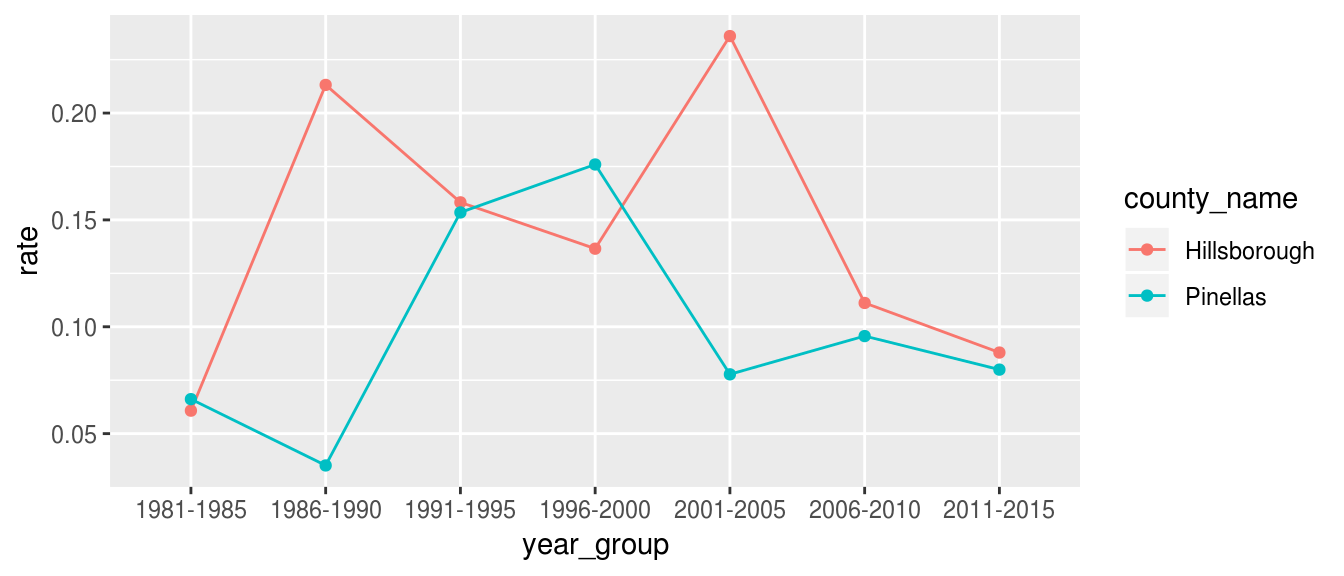
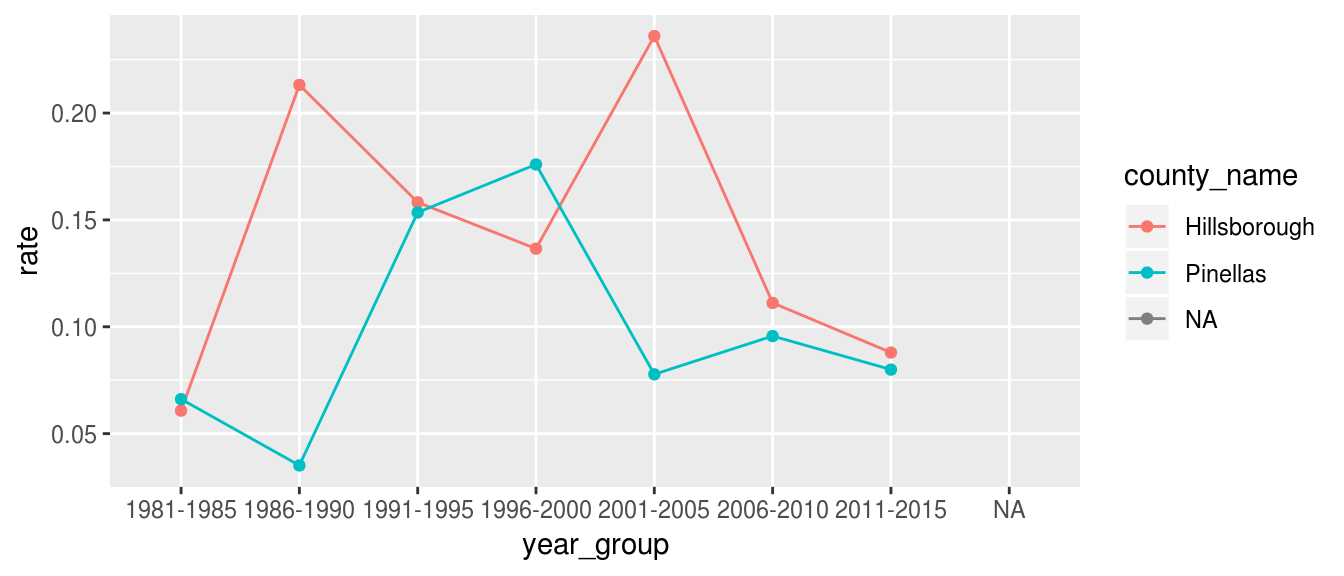
Deploy from Travis build 70 [ci skip]
Build URL: https://travis-ci.org/GerkeLab/fcds/builds/527112856
Commit: 1417245ba5334bbd1c8b8e6c6d7033863dd075ba

diff --git a/articles/fcds.html b/articles/fcds.html
@@ -31,7 +31,7 @@
       </button>
       <span class="navbar-brand">
         <a class="navbar-link" href="../index.html">fcds</a>
-        <span class="version label label-default" data-toggle="tooltip" data-placement="bottom" title="Released version">0.0.6.9003</span>
+        <span class="version label label-default" data-toggle="tooltip" data-placement="bottom" title="Released version">0.0.6.9004</span>
       </span>
     </div>
 
@@ -243,26 +243,113 @@
 <a class="sourceLine" id="cb10-16" data-line-number="16"><span class="st">  </span><span class="kw"><a href="../reference/age_adjust.html">age_adjust</a></span>() <span class="op">%&gt;%</span><span class="st"> </span></a>
 <a class="sourceLine" id="cb10-17" data-line-number="17"><span class="st">  </span><span class="co"># Compute average yearly age-adjusted rate over 5 year range</span></a>
 <a class="sourceLine" id="cb10-18" data-line-number="18"><span class="st">  </span><span class="kw"><a href="https://dplyr.tidyverse.org/reference/mutate.html">mutate</a></span>(<span class="dt">rate =</span> rate <span class="op">/</span><span class="st"> </span><span class="dv">5</span>)</a>
-<a class="sourceLine" id="cb10-19" data-line-number="19"></a>
-<a class="sourceLine" id="cb10-20" data-line-number="20">fcds_prostate</a>
-<a class="sourceLine" id="cb10-21" data-line-number="21"><span class="co">#&gt; # A tibble: 14 x 7</span></a>
-<a class="sourceLine" id="cb10-22" data-line-number="22"><span class="co">#&gt; # Groups:   cancer_site_group, county_name, year_group, year [14]</span></a>
-<a class="sourceLine" id="cb10-23" data-line-number="23"><span class="co">#&gt;    cancer_site_group county_name  year_group year      n population   rate</span></a>
-<a class="sourceLine" id="cb10-24" data-line-number="24"><span class="co">#&gt;    &lt;fct&gt;             &lt;fct&gt;        &lt;fct&gt;      &lt;chr&gt; &lt;dbl&gt;      &lt;dbl&gt;  &lt;dbl&gt;</span></a>
-<a class="sourceLine" id="cb10-25" data-line-number="25"><span class="co">#&gt;  1 Prostate Gland    Hillsborough 1981-1985  1983      2     709697 0.0608</span></a>
-<a class="sourceLine" id="cb10-26" data-line-number="26"><span class="co">#&gt;  2 Prostate Gland    Hillsborough 1986-1990  1988      8     816676 0.213 </span></a>
-<a class="sourceLine" id="cb10-27" data-line-number="27"><span class="co">#&gt;  3 Prostate Gland    Hillsborough 1991-1995  1993      6     879024 0.158 </span></a>
-<a class="sourceLine" id="cb10-28" data-line-number="28"><span class="co">#&gt;  4 Prostate Gland    Hillsborough 1996-2000  1998      6     965130 0.137 </span></a>
-<a class="sourceLine" id="cb10-29" data-line-number="29"><span class="co">#&gt;  5 Prostate Gland    Hillsborough 2001-2005  2003     12    1077462 0.236 </span></a>
-<a class="sourceLine" id="cb10-30" data-line-number="30"><span class="co">#&gt;  6 Prostate Gland    Hillsborough 2006-2010  2008      7    1196773 0.111 </span></a>
-<a class="sourceLine" id="cb10-31" data-line-number="31"><span class="co">#&gt;  7 Prostate Gland    Hillsborough 2011-2015  2013      6    1293189 0.0880</span></a>
-<a class="sourceLine" id="cb10-32" data-line-number="32"><span class="co">#&gt;  8 Prostate Gland    Pinellas     1981-1985  1983      3     779156 0.0661</span></a>
-<a class="sourceLine" id="cb10-33" data-line-number="33"><span class="co">#&gt;  9 Prostate Gland    Pinellas     1986-1990  1988      2     829539 0.0351</span></a>
-<a class="sourceLine" id="cb10-34" data-line-number="34"><span class="co">#&gt; 10 Prostate Gland    Pinellas     1991-1995  1993     11     877340 0.154 </span></a>
-<a class="sourceLine" id="cb10-35" data-line-number="35"><span class="co">#&gt; 11 Prostate Gland    Pinellas     1996-2000  1998     11     913032 0.176 </span></a>
-<a class="sourceLine" id="cb10-36" data-line-number="36"><span class="co">#&gt; 12 Prostate Gland    Pinellas     2001-2005  2003      5     926266 0.0778</span></a>
-<a class="sourceLine" id="cb10-37" data-line-number="37"><span class="co">#&gt; 13 Prostate Gland    Pinellas     2006-2010  2008      7     916458 0.0957</span></a>
-<a class="sourceLine" id="cb10-38" data-line-number="38"><span class="co">#&gt; 14 Prostate Gland    Pinellas     2011-2015  2013      7     929085 0.0800</span></a></code></pre></div>
+<a class="sourceLine" id="cb10-19" data-line-number="19"><span class="co">#&gt; Warning: Factor `cancer_site_group` contains implicit NA, consider using</span></a>
+<a class="sourceLine" id="cb10-20" data-line-number="20"><span class="co">#&gt; `forcats::fct_explicit_na`</span></a>
+<a class="sourceLine" id="cb10-21" data-line-number="21"><span class="co">#&gt; Warning: Factor `county_name` contains implicit NA, consider using</span></a>
+<a class="sourceLine" id="cb10-22" data-line-number="22"><span class="co">#&gt; `forcats::fct_explicit_na`</span></a>
+<a class="sourceLine" id="cb10-23" data-line-number="23"><span class="co">#&gt; Warning: Factor `year_group` contains implicit NA, consider using</span></a>
+<a class="sourceLine" id="cb10-24" data-line-number="24"><span class="co">#&gt; `forcats::fct_explicit_na`</span></a>
+<a class="sourceLine" id="cb10-25" data-line-number="25"><span class="co">#&gt; Warning: Factor `cancer_site_group` contains implicit NA, consider using</span></a>
+<a class="sourceLine" id="cb10-26" data-line-number="26"><span class="co">#&gt; `forcats::fct_explicit_na`</span></a>
+<a class="sourceLine" id="cb10-27" data-line-number="27"><span class="co">#&gt; Warning: Factor `county_name` contains implicit NA, consider using</span></a>
+<a class="sourceLine" id="cb10-28" data-line-number="28"><span class="co">#&gt; `forcats::fct_explicit_na`</span></a>
+<a class="sourceLine" id="cb10-29" data-line-number="29"><span class="co">#&gt; Warning: Factor `year_group` contains implicit NA, consider using</span></a>
+<a class="sourceLine" id="cb10-30" data-line-number="30"><span class="co">#&gt; `forcats::fct_explicit_na`</span></a>
+<a class="sourceLine" id="cb10-31" data-line-number="31"><span class="co">#&gt; Warning: Factor `cancer_site_group` contains implicit NA, consider using</span></a>
+<a class="sourceLine" id="cb10-32" data-line-number="32"><span class="co">#&gt; `forcats::fct_explicit_na`</span></a>
+<a class="sourceLine" id="cb10-33" data-line-number="33"><span class="co">#&gt; Warning: Factor `county_name` contains implicit NA, consider using</span></a>
+<a class="sourceLine" id="cb10-34" data-line-number="34"><span class="co">#&gt; `forcats::fct_explicit_na`</span></a>
+<a class="sourceLine" id="cb10-35" data-line-number="35"><span class="co">#&gt; Warning: Factor `year_group` contains implicit NA, consider using</span></a>
+<a class="sourceLine" id="cb10-36" data-line-number="36"><span class="co">#&gt; `forcats::fct_explicit_na`</span></a>
+<a class="sourceLine" id="cb10-37" data-line-number="37"><span class="co">#&gt; Warning: Factor `cancer_site_group` contains implicit NA, consider using</span></a>
+<a class="sourceLine" id="cb10-38" data-line-number="38"><span class="co">#&gt; `forcats::fct_explicit_na`</span></a>
+<a class="sourceLine" id="cb10-39" data-line-number="39"><span class="co">#&gt; Warning: Factor `county_name` contains implicit NA, consider using</span></a>
+<a class="sourceLine" id="cb10-40" data-line-number="40"><span class="co">#&gt; `forcats::fct_explicit_na`</span></a>
+<a class="sourceLine" id="cb10-41" data-line-number="41"><span class="co">#&gt; Warning: Factor `year_group` contains implicit NA, consider using</span></a>
+<a class="sourceLine" id="cb10-42" data-line-number="42"><span class="co">#&gt; `forcats::fct_explicit_na`</span></a>
+<a class="sourceLine" id="cb10-43" data-line-number="43"><span class="co">#&gt; Warning: Mismatched number of age_groups in data, you may need to use complete_age_groups() first.</span></a>
+<a class="sourceLine" id="cb10-44" data-line-number="44"><span class="co">#&gt; 'Prostate Gland, Pinellas, 1996-2000, 1998' has 8 age groups, but 'Prostate Gland, Hillsborough, 2001-2005, 2003', 'Prostate Gland, Hillsborough, 1986-1990, 1988', and 12 more... have fewer age groups.</span></a>
+<a class="sourceLine" id="cb10-45" data-line-number="45"><span class="co">#&gt; Warning: Factor `cancer_site_group` contains implicit NA, consider using</span></a>
+<a class="sourceLine" id="cb10-46" data-line-number="46"><span class="co">#&gt; `forcats::fct_explicit_na`</span></a>
+<a class="sourceLine" id="cb10-47" data-line-number="47"><span class="co">#&gt; Warning: Factor `county_name` contains implicit NA, consider using</span></a>
+<a class="sourceLine" id="cb10-48" data-line-number="48"><span class="co">#&gt; `forcats::fct_explicit_na`</span></a>
+<a class="sourceLine" id="cb10-49" data-line-number="49"><span class="co">#&gt; Warning: Factor `year_group` contains implicit NA, consider using</span></a>
+<a class="sourceLine" id="cb10-50" data-line-number="50"><span class="co">#&gt; `forcats::fct_explicit_na`</span></a>
+<a class="sourceLine" id="cb10-51" data-line-number="51"><span class="co">#&gt; Warning: Factor `cancer_site_group` contains implicit NA, consider using</span></a>
+<a class="sourceLine" id="cb10-52" data-line-number="52"><span class="co">#&gt; `forcats::fct_explicit_na`</span></a>
+<a class="sourceLine" id="cb10-53" data-line-number="53"><span class="co">#&gt; Warning: Factor `county_name` contains implicit NA, consider using</span></a>
+<a class="sourceLine" id="cb10-54" data-line-number="54"><span class="co">#&gt; `forcats::fct_explicit_na`</span></a>
+<a class="sourceLine" id="cb10-55" data-line-number="55"><span class="co">#&gt; Warning: Factor `year_group` contains implicit NA, consider using</span></a>
+<a class="sourceLine" id="cb10-56" data-line-number="56"><span class="co">#&gt; `forcats::fct_explicit_na`</span></a>
+<a class="sourceLine" id="cb10-57" data-line-number="57"><span class="co">#&gt; Warning: Factor `cancer_site_group` contains implicit NA, consider using</span></a>
+<a class="sourceLine" id="cb10-58" data-line-number="58"><span class="co">#&gt; `forcats::fct_explicit_na`</span></a>
+<a class="sourceLine" id="cb10-59" data-line-number="59"><span class="co">#&gt; Warning: Factor `county_name` contains implicit NA, consider using</span></a>
+<a class="sourceLine" id="cb10-60" data-line-number="60"><span class="co">#&gt; `forcats::fct_explicit_na`</span></a>
+<a class="sourceLine" id="cb10-61" data-line-number="61"><span class="co">#&gt; Warning: Factor `year_group` contains implicit NA, consider using</span></a>
+<a class="sourceLine" id="cb10-62" data-line-number="62"><span class="co">#&gt; `forcats::fct_explicit_na`</span></a>
+<a class="sourceLine" id="cb10-63" data-line-number="63"><span class="co">#&gt; Warning: Factor `cancer_site_group` contains implicit NA, consider using</span></a>
+<a class="sourceLine" id="cb10-64" data-line-number="64"><span class="co">#&gt; `forcats::fct_explicit_na`</span></a>
+<a class="sourceLine" id="cb10-65" data-line-number="65"><span class="co">#&gt; Warning: Factor `county_name` contains implicit NA, consider using</span></a>
+<a class="sourceLine" id="cb10-66" data-line-number="66"><span class="co">#&gt; `forcats::fct_explicit_na`</span></a>
+<a class="sourceLine" id="cb10-67" data-line-number="67"><span class="co">#&gt; Warning: Factor `year_group` contains implicit NA, consider using</span></a>
+<a class="sourceLine" id="cb10-68" data-line-number="68"><span class="co">#&gt; `forcats::fct_explicit_na`</span></a>
+<a class="sourceLine" id="cb10-69" data-line-number="69"><span class="co">#&gt; Warning: Factor `cancer_site_group` contains implicit NA, consider using</span></a>
+<a class="sourceLine" id="cb10-70" data-line-number="70"><span class="co">#&gt; `forcats::fct_explicit_na`</span></a>
+<a class="sourceLine" id="cb10-71" data-line-number="71"><span class="co">#&gt; Warning: Factor `county_name` contains implicit NA, consider using</span></a>
+<a class="sourceLine" id="cb10-72" data-line-number="72"><span class="co">#&gt; `forcats::fct_explicit_na`</span></a>
+<a class="sourceLine" id="cb10-73" data-line-number="73"><span class="co">#&gt; Warning: Factor `year_group` contains implicit NA, consider using</span></a>
+<a class="sourceLine" id="cb10-74" data-line-number="74"><span class="co">#&gt; `forcats::fct_explicit_na`</span></a>
+<a class="sourceLine" id="cb10-75" data-line-number="75"><span class="co">#&gt; Warning: Factor `cancer_site_group` contains implicit NA, consider using</span></a>
+<a class="sourceLine" id="cb10-76" data-line-number="76"><span class="co">#&gt; `forcats::fct_explicit_na`</span></a>
+<a class="sourceLine" id="cb10-77" data-line-number="77"><span class="co">#&gt; Warning: Factor `county_name` contains implicit NA, consider using</span></a>
+<a class="sourceLine" id="cb10-78" data-line-number="78"><span class="co">#&gt; `forcats::fct_explicit_na`</span></a>
+<a class="sourceLine" id="cb10-79" data-line-number="79"><span class="co">#&gt; Warning: Factor `year_group` contains implicit NA, consider using</span></a>
+<a class="sourceLine" id="cb10-80" data-line-number="80"><span class="co">#&gt; `forcats::fct_explicit_na`</span></a>
+<a class="sourceLine" id="cb10-81" data-line-number="81"><span class="co">#&gt; Warning: Factor `cancer_site_group` contains implicit NA, consider using</span></a>
+<a class="sourceLine" id="cb10-82" data-line-number="82"><span class="co">#&gt; `forcats::fct_explicit_na`</span></a>
+<a class="sourceLine" id="cb10-83" data-line-number="83"><span class="co">#&gt; Warning: Factor `county_name` contains implicit NA, consider using</span></a>
+<a class="sourceLine" id="cb10-84" data-line-number="84"><span class="co">#&gt; `forcats::fct_explicit_na`</span></a>
+<a class="sourceLine" id="cb10-85" data-line-number="85"><span class="co">#&gt; Warning: Factor `year_group` contains implicit NA, consider using</span></a>
+<a class="sourceLine" id="cb10-86" data-line-number="86"><span class="co">#&gt; `forcats::fct_explicit_na`</span></a>
+<a class="sourceLine" id="cb10-87" data-line-number="87"><span class="co">#&gt; Warning: Factor `cancer_site_group` contains implicit NA, consider using</span></a>
+<a class="sourceLine" id="cb10-88" data-line-number="88"><span class="co">#&gt; `forcats::fct_explicit_na`</span></a>
+<a class="sourceLine" id="cb10-89" data-line-number="89"><span class="co">#&gt; Warning: Factor `county_name` contains implicit NA, consider using</span></a>
+<a class="sourceLine" id="cb10-90" data-line-number="90"><span class="co">#&gt; `forcats::fct_explicit_na`</span></a>
+<a class="sourceLine" id="cb10-91" data-line-number="91"><span class="co">#&gt; Warning: Factor `year_group` contains implicit NA, consider using</span></a>
+<a class="sourceLine" id="cb10-92" data-line-number="92"><span class="co">#&gt; `forcats::fct_explicit_na`</span></a>
+<a class="sourceLine" id="cb10-93" data-line-number="93"><span class="co">#&gt; Warning: Factor `cancer_site_group` contains implicit NA, consider using</span></a>
+<a class="sourceLine" id="cb10-94" data-line-number="94"><span class="co">#&gt; `forcats::fct_explicit_na`</span></a>
+<a class="sourceLine" id="cb10-95" data-line-number="95"><span class="co">#&gt; Warning: Factor `county_name` contains implicit NA, consider using</span></a>
+<a class="sourceLine" id="cb10-96" data-line-number="96"><span class="co">#&gt; `forcats::fct_explicit_na`</span></a>
+<a class="sourceLine" id="cb10-97" data-line-number="97"><span class="co">#&gt; Warning: Factor `year_group` contains implicit NA, consider using</span></a>
+<a class="sourceLine" id="cb10-98" data-line-number="98"><span class="co">#&gt; `forcats::fct_explicit_na`</span></a>
+<a class="sourceLine" id="cb10-99" data-line-number="99"></a>
+<a class="sourceLine" id="cb10-100" data-line-number="100">fcds_prostate</a>
+<a class="sourceLine" id="cb10-101" data-line-number="101"><span class="co">#&gt; Warning: Factor `cancer_site_group` contains implicit NA, consider using</span></a>
+<a class="sourceLine" id="cb10-102" data-line-number="102"><span class="co">#&gt; `forcats::fct_explicit_na`</span></a>
+<a class="sourceLine" id="cb10-103" data-line-number="103"><span class="co">#&gt; Warning: Factor `county_name` contains implicit NA, consider using</span></a>
+<a class="sourceLine" id="cb10-104" data-line-number="104"><span class="co">#&gt; `forcats::fct_explicit_na`</span></a>
+<a class="sourceLine" id="cb10-105" data-line-number="105"><span class="co">#&gt; Warning: Factor `year_group` contains implicit NA, consider using</span></a>
+<a class="sourceLine" id="cb10-106" data-line-number="106"><span class="co">#&gt; `forcats::fct_explicit_na`</span></a>
+<a class="sourceLine" id="cb10-107" data-line-number="107"><span class="co">#&gt; # A tibble: 15 x 7</span></a>
+<a class="sourceLine" id="cb10-108" data-line-number="108"><span class="co">#&gt; # Groups:   cancer_site_group, county_name, year_group, year [15]</span></a>
+<a class="sourceLine" id="cb10-109" data-line-number="109"><span class="co">#&gt;    cancer_site_group county_name year_group year      n population     rate</span></a>
+<a class="sourceLine" id="cb10-110" data-line-number="110"><span class="co">#&gt;    &lt;fct&gt;             &lt;fct&gt;       &lt;fct&gt;      &lt;chr&gt; &lt;dbl&gt;      &lt;dbl&gt;    &lt;dbl&gt;</span></a>
+<a class="sourceLine" id="cb10-111" data-line-number="111"><span class="co">#&gt;  1 Prostate Gland    Hillsborou… 1981-1985  1983      2      93235   0.0608</span></a>
+<a class="sourceLine" id="cb10-112" data-line-number="112"><span class="co">#&gt;  2 Prostate Gland    Hillsborou… 1986-1990  1988      8     200090   0.213 </span></a>
+<a class="sourceLine" id="cb10-113" data-line-number="113"><span class="co">#&gt;  3 Prostate Gland    Hillsborou… 1991-1995  1993      6     154117   0.158 </span></a>
+<a class="sourceLine" id="cb10-114" data-line-number="114"><span class="co">#&gt;  4 Prostate Gland    Hillsborou… 1996-2000  1998      6     149086   0.137 </span></a>
+<a class="sourceLine" id="cb10-115" data-line-number="115"><span class="co">#&gt;  5 Prostate Gland    Hillsborou… 2001-2005  2003     12     224628   0.236 </span></a>
+<a class="sourceLine" id="cb10-116" data-line-number="116"><span class="co">#&gt;  6 Prostate Gland    Hillsborou… 2006-2010  2008      7     307200   0.111 </span></a>
+<a class="sourceLine" id="cb10-117" data-line-number="117"><span class="co">#&gt;  7 Prostate Gland    Hillsborou… 2011-2015  2013      6     338524   0.0880</span></a>
+<a class="sourceLine" id="cb10-118" data-line-number="118"><span class="co">#&gt;  8 Prostate Gland    Pinellas    1981-1985  1983      3      79325   0.0661</span></a>
+<a class="sourceLine" id="cb10-119" data-line-number="119"><span class="co">#&gt;  9 Prostate Gland    Pinellas    1986-1990  1988      2     100032   0.0351</span></a>
+<a class="sourceLine" id="cb10-120" data-line-number="120"><span class="co">#&gt; 10 Prostate Gland    Pinellas    1991-1995  1993     11     285053   0.154 </span></a>
+<a class="sourceLine" id="cb10-121" data-line-number="121"><span class="co">#&gt; 11 Prostate Gland    Pinellas    1996-2000  1998     11     376502   0.176 </span></a>
+<a class="sourceLine" id="cb10-122" data-line-number="122"><span class="co">#&gt; 12 Prostate Gland    Pinellas    2001-2005  2003      5     266168   0.0778</span></a>
+<a class="sourceLine" id="cb10-123" data-line-number="123"><span class="co">#&gt; 13 Prostate Gland    Pinellas    2006-2010  2008      7     257141   0.0957</span></a>
+<a class="sourceLine" id="cb10-124" data-line-number="124"><span class="co">#&gt; 14 Prostate Gland    Pinellas    2011-2015  2013      7     273553   0.0800</span></a>
+<a class="sourceLine" id="cb10-125" data-line-number="125"><span class="co">#&gt; 15 &lt;NA&gt;              &lt;NA&gt;        &lt;NA&gt;       &lt;NA&gt;      0          0 NaN</span></a></code></pre></div>
 <p>This data can readily be passed to <code>ggplot2</code> for visualization.</p>
 <div class="sourceCode" id="cb11"><pre class="sourceCode r"><code class="sourceCode r"><a class="sourceLine" id="cb11-1" data-line-number="1"><span class="kw"><a href="https://www.rdocumentation.org/packages/base/topics/library">library</a></span>(ggplot2)</a>
 <a class="sourceLine" id="cb11-2" data-line-number="2"><span class="co">#&gt; Registered S3 methods overwritten by 'ggplot2':</span></a>
@@ -274,7 +361,9 @@
 <a class="sourceLine" id="cb11-8" data-line-number="8"><span class="kw"><a href="https://www.rdocumentation.org/packages/ggplot2/topics/ggplot">ggplot</a></span>(fcds_prostate) <span class="op">+</span></a>
 <a class="sourceLine" id="cb11-9" data-line-number="9"><span class="st">  </span><span class="kw"><a href="https://www.rdocumentation.org/packages/ggplot2/topics/aes">aes</a></span>(year_group, rate, <span class="dt">color =</span> county_name, <span class="dt">group =</span> county_name) <span class="op">+</span></a>
 <a class="sourceLine" id="cb11-10" data-line-number="10"><span class="st">  </span><span class="kw"><a href="https://www.rdocumentation.org/packages/ggplot2/topics/geom_path">geom_line</a></span>() <span class="op">+</span></a>
-<a class="sourceLine" id="cb11-11" data-line-number="11"><span class="st">  </span><span class="kw"><a href="https://www.rdocumentation.org/packages/ggplot2/topics/geom_point">geom_point</a></span>()</a></code></pre></div>
+<a class="sourceLine" id="cb11-11" data-line-number="11"><span class="st">  </span><span class="kw"><a href="https://www.rdocumentation.org/packages/ggplot2/topics/geom_point">geom_point</a></span>()</a>
+<a class="sourceLine" id="cb11-12" data-line-number="12"><span class="co">#&gt; Warning: Removed 1 rows containing missing values (geom_path).</span></a>
+<a class="sourceLine" id="cb11-13" data-line-number="13"><span class="co">#&gt; Warning: Removed 1 rows containing missing values (geom_point).</span></a></code></pre></div>
 <p><img src="fcds_files/figure-html/unnamed-chunk-11-1.png" width="672"></p>
 </div>
   </div>

diff --git a/reference/complete_age_groups.html b/reference/complete_age_groups.html
@@ -69,7 +69,7 @@ variable." />
       </button>
       <span class="navbar-brand">
         <a class="navbar-link" href="../index.html">fcds</a>
-        <span class="version label label-default" data-toggle="tooltip" data-placement="bottom" title="Released version">0.0.6.9003</span>
+        <span class="version label label-default" data-toggle="tooltip" data-placement="bottom" title="Released version">0.0.6.9004</span>
       </span>
     </div>
 
@@ -136,7 +136,7 @@ variable.</p>
     
     </div>
 
-    <pre class="usage"><span class='fu'>complete_age_groups</span>(<span class='no'>data</span>, <span class='kw'>age_gt</span> <span class='kw'>=</span> <span class='kw'>NULL</span>, <span class='kw'>age_lt</span> <span class='kw'>=</span> <span class='kw'>NULL</span>, <span class='no'>...</span>,
+    <pre class="usage"><span class='fu'>complete_age_groups</span>(<span class='no'>data</span>, <span class='no'>...</span>, <span class='kw'>age_gt</span> <span class='kw'>=</span> <span class='kw'>NULL</span>, <span class='kw'>age_lt</span> <span class='kw'>=</span> <span class='kw'>NULL</span>,
   <span class='kw'>age_group</span> <span class='kw'>=</span> <span class='no'>age_group</span>, <span class='kw'>fill</span> <span class='kw'>=</span> <span class='fu'><a href='https://www.rdocumentation.org/packages/base/topics/list'>list</a></span>(<span class='kw'>n</span> <span class='kw'>=</span> <span class='fl'>0</span>), <span class='kw'>include_unknown</span> <span class='kw'>=</span> <span class='fl'>FALSE</span>,
   <span class='kw'>std_age_groups</span> <span class='kw'>=</span> <span class='fu'><a href='fcds_const.html'>fcds_const</a></span>(<span class='st'>"age_group"</span>))</pre>
     
@@ -148,16 +148,19 @@ variable.</p>
       <td><p>A data frame.</p></td>
     </tr>
     <tr>
+      <th>...</th>
+      <td><p>Column specification passed on to <code><a href='https://tidyr.tidyverse.org/reference/complete.html'>tidyr::complete()</a></code>. Used to
+identify additional columns that should also be completed. Columns that
+aren't declared here and do not have a default <code>fill</code> value will have <code>NA</code>
+values in the resulting output.</p></td>
+    </tr>
+    <tr>
       <th>age_gt</th>
       <td><p>Youngest age (inclusive).</p></td>
     </tr>
     <tr>
       <th>age_lt</th>
       <td><p>Eldest age (inclusive).</p></td>
-    </tr>
-    <tr>
-      <th>...</th>
-      <td><p>Not used other than to require explicit naming of arguments.</p></td>
     </tr>
     <tr>
       <th>age_group</th>
@@ -191,7 +194,7 @@ groups.</p></td>
   <span class='kw'>age_group</span> <span class='kw'>=</span> <span class='fu'><a href='https://www.rdocumentation.org/packages/base/topics/c'>c</a></span>(<span class='st'>"10 - 14"</span>, <span class='st'>"15 - 19"</span>, <span class='st'>"25 - 29"</span>),
   <span class='kw'>n</span> <span class='kw'>=</span> <span class='fl'>10</span>:<span class='fl'>12</span>
 ) <span class='kw'>%&gt;%</span>
-  <span class='fu'>complete_age_groups</span>(<span class='fl'>10</span>, <span class='fl'>35</span>)</div><div class='output co'>#&gt; # A tibble: 5 x 2
+  <span class='fu'>complete_age_groups</span>(<span class='kw'>age_gt</span> <span class='kw'>=</span> <span class='fl'>10</span>, <span class='kw'>age_lt</span> <span class='kw'>=</span> <span class='fl'>35</span>)</div><div class='output co'>#&gt; # A tibble: 5 x 2
 #&gt;   age_group     n
 #&gt;   &lt;ord&gt;     &lt;dbl&gt;
 #&gt; 1 10 - 14      10
@@ -199,6 +202,39 @@ groups.</p></td>
 #&gt; 3 20 - 24       0
 #&gt; 4 25 - 29      12
 #&gt; 5 30 - 34       0</div><div class='input'>
+<span class='fu'><a href='https://www.rdocumentation.org/packages/base/topics/Random'>set.seed</a></span>(<span class='fl'>42</span>)
+
+<span class='co'># Create an example data frame with age_groups at several grouping levels</span>
+<span class='kw pkg'>tidyr</span><span class='kw ns'>::</span><span class='fu'><a href='https://tidyr.tidyverse.org/reference/expand.html'>crossing</a></span>(
+  <span class='kw'>group</span> <span class='kw'>=</span> <span class='no'>LETTERS</span>[<span class='fl'>1</span>:<span class='fl'>3</span>],
+  <span class='kw'>sub_group</span> <span class='kw'>=</span> <span class='fu'><a href='https://www.rdocumentation.org/packages/base/topics/paste'>paste</a></span>(<span class='fl'>1</span>:<span class='fl'>3</span>),
+) <span class='kw'>%&gt;%</span>
+  <span class='co'># Add a column with equivalent levels to `sub_group`</span>
+  <span class='kw pkg'>dplyr</span><span class='kw ns'>::</span><span class='fu'><a href='https://dplyr.tidyverse.org/reference/mutate.html'>mutate</a></span>(<span class='kw'>sub_group_equal</span> <span class='kw'>=</span> <span class='no'>letters</span>[<span class='fu'><a href='https://www.rdocumentation.org/packages/base/topics/integer'>as.integer</a></span>(<span class='no'>sub_group</span>)]) <span class='kw'>%&gt;%</span>
+  <span class='co'># Add age groups for ages &lt; 25 to each group level</span>
+  <span class='kw pkg'>tidyr</span><span class='kw ns'>::</span><span class='fu'><a href='https://tidyr.tidyverse.org/reference/expand.html'>crossing</a></span>(
+    <span class='kw'>age_group</span> <span class='kw'>=</span> <span class='fu'><a href='fcds_const.html'>fcds_const</a></span>(<span class='st'>"age_group"</span>)[<span class='fl'>1</span>:<span class='fl'>5</span>]
+  ) <span class='kw'>%&gt;%</span>
+  <span class='co'># Remove 20% of the age_groups</span>
+  <span class='kw pkg'>dplyr</span><span class='kw ns'>::</span><span class='fu'><a href='https://dplyr.tidyverse.org/reference/sample.html'>sample_frac</a></span>(<span class='fl'>0.80</span>) <span class='kw'>%&gt;%</span>
+  <span class='co'># Use complete_age_groups() to complete the grouping,</span>
+  <span class='co'># using tidyr::complete() syntax to specificy which additional columns</span>
+  <span class='co'># are completed.</span>
+  <span class='fu'>complete_age_groups</span>(<span class='kw'>age_lt</span> <span class='kw'>=</span> <span class='fl'>25</span>, <span class='no'>group</span>, <span class='kw pkg'>tidyr</span><span class='kw ns'>::</span><span class='fu'><a href='https://tidyr.tidyverse.org/reference/expand.html'>nesting</a></span>(<span class='no'>sub_group</span>, <span class='no'>sub_group_equal</span>))</div><div class='output co'>#&gt; # A tibble: 45 x 4
+#&gt;    group sub_group sub_group_equal age_group
+#&gt;    &lt;chr&gt; &lt;chr&gt;     &lt;chr&gt;           &lt;ord&gt;    
+#&gt;  1 A     1         a               0 - 4    
+#&gt;  2 A     1         a               5 - 9    
+#&gt;  3 A     1         a               10 - 14  
+#&gt;  4 A     1         a               15 - 19  
+#&gt;  5 A     1         a               20 - 24  
+#&gt;  6 A     2         b               0 - 4    
+#&gt;  7 A     2         b               5 - 9    
+#&gt;  8 A     2         b               10 - 14  
+#&gt;  9 A     2         b               15 - 19  
+#&gt; 10 A     2         b               20 - 24  
+#&gt; # … with 35 more rows</div><div class='input'>
+
 </div></pre>
   </div>
   <div class="col-md-3 hidden-xs hidden-sm" id="sidebar">

diff --git a/reference/fcds_map.html b/reference/fcds_map.html
@@ -69,7 +69,7 @@ age-adjusted rate has been calculated." />
       </button>
       <span class="navbar-brand">
         <a class="navbar-link" href="../index.html">fcds</a>
-        <span class="version label label-default" data-toggle="tooltip" data-placement="bottom" title="Released version">0.0.6.9003</span>
+        <span class="version label label-default" data-toggle="tooltip" data-placement="bottom" title="Released version">0.0.6.9004</span>
       </span>
     </div>
 
@@ -247,8 +247,8 @@ row-wise with references to the column in <code>data</code>.</p></li>
   <span class='fu'><a href='age_adjust.html'>age_adjust</a></span>() <span class='kw'>%&gt;%</span>
   <span class='kw pkg'>dplyr</span><span class='kw ns'>::</span><span class='fu'><a href='https://dplyr.tidyverse.org/reference/group_by.html'>ungroup</a></span>() <span class='kw'>%&gt;%</span>
   <span class='kw pkg'>dplyr</span><span class='kw ns'>::</span><span class='fu'><a href='https://dplyr.tidyverse.org/reference/mutate.html'>mutate</a></span>(<span class='kw'>rate</span> <span class='kw'>=</span> <span class='no'>rate</span> / <span class='fl'>5</span>) <span class='kw'>%&gt;%</span>
-  <span class='kw pkg'>dplyr</span><span class='kw ns'>::</span><span class='fu'><a href='https://dplyr.tidyverse.org/reference/mutate.html'>mutate</a></span>(<span class='kw'>year_group</span> <span class='kw'>=</span> <span class='fu'><a href='https://www.rdocumentation.org/packages/base/topics/factor'>factor</a></span>(<span class='no'>year_group</span>, <span class='fu'><a href='https://www.rdocumentation.org/packages/base/topics/unique'>unique</a></span>(<span class='no'>year_group</span>)))
-
+  <span class='kw pkg'>dplyr</span><span class='kw ns'>::</span><span class='fu'><a href='https://dplyr.tidyverse.org/reference/mutate.html'>mutate</a></span>(<span class='kw'>year_group</span> <span class='kw'>=</span> <span class='fu'><a href='https://www.rdocumentation.org/packages/base/topics/factor'>factor</a></span>(<span class='no'>year_group</span>, <span class='fu'><a href='https://www.rdocumentation.org/packages/base/topics/unique'>unique</a></span>(<span class='no'>year_group</span>)))</div><div class='output co'>#&gt; <span class='warning'>Warning: Mismatched number of age_groups in data, you may need to use complete_age_groups() first.</span>
+#&gt; <span class='warning'>'Hillsborough, 2011-2015, 2013' has 18 age groups, but 'Lake, 2001-2005, 2003', 'Lee, 2011-2015, 2013', and 102 more... have fewer age groups.</span></div><div class='input'>
 <span class='kw'>if</span> (<span class='fu'><a href='https://www.rdocumentation.org/packages/base/topics/all'>all</a></span>(<span class='kw pkg'>fcds</span><span class='kw ns'>:::</span><span class='fu'>suggests_package</span>(<span class='fu'><a href='https://www.rdocumentation.org/packages/base/topics/c'>c</a></span>(<span class='st'>"sf"</span>, <span class='st'>"ggplot2"</span>)))) {
   <span class='fu'>fcds_map</span>(<span class='no'>fcds_example_rates</span>) +
     <span class='kw pkg'>ggplot2</span><span class='kw ns'>::</span><span class='fu'><a href='https://www.rdocumentation.org/packages/ggplot2/topics/facet_wrap'>facet_wrap</a></span>(~<span class='no'>year_group</span>, <span class='kw'>ncol</span> <span class='kw'>=</span> <span class='fl'>4</span>) +

diff --git a/reference/join_boundaries_fl.html b/reference/join_boundaries_fl.html
@@ -68,7 +68,7 @@ shapes used." />
       </button>
       <span class="navbar-brand">
         <a class="navbar-link" href="../index.html">fcds</a>
-        <span class="version label label-default" data-toggle="tooltip" data-placement="bottom" title="Released version">0.0.6.9003</span>
+        <span class="version label label-default" data-toggle="tooltip" data-placement="bottom" title="Released version">0.0.6.9004</span>
       </span>
     </div>
 
@@ -129,7 +129,7 @@ shapes used." />
     
     <p>Uses the <code>sf</code> and <code>USAboundaries</code> packages to join the input data with the
 county shapes required for spatial data visualization. See
-<code><a href='http://lincolnmullen.com/software/usaboundaries/reference/us_counties.html'>USAboundaries::us_counties()</a></code> for more information about the county
+<code><a href='https://www.rdocumentation.org/packages/USAboundaries/topics/us_counties'>USAboundaries::us_counties()</a></code> for more information about the county
 shapes used.</p>
     
     </div>
@@ -145,7 +145,7 @@ shapes used.</p>
     </tr>
     <tr>
       <th>...</th>
-      <td><p>Additional arguments passed to <code><a href='http://lincolnmullen.com/software/usaboundaries/reference/us_counties.html'>USAboundaries::us_counties()</a></code>.</p></td>
+      <td><p>Additional arguments passed to <code><a href='https://www.rdocumentation.org/packages/USAboundaries/topics/us_counties'>USAboundaries::us_counties()</a></code>.</p></td>
     </tr>
     </table>
     

diff --git a/reference/seer_pop_fl_1990.html b/reference/seer_pop_fl_1990.html
@@ -74,7 +74,7 @@ recoding by collapsing the expanded race variable into &quot;White&quot;, &quot;
       </button>
       <span class="navbar-brand">
         <a class="navbar-link" href="../index.html">fcds</a>
-        <span class="version label label-default" data-toggle="tooltip" data-placement="bottom" title="Released version">0.0.6.9003</span>
+        <span class="version label label-default" data-toggle="tooltip" data-placement="bottom" title="Released version">0.0.6.9004</span>
       </span>
     </div>
 

diff --git a/reference/seer_std_ages.html b/reference/seer_std_ages.html
@@ -68,7 +68,7 @@ ages agregated into 18 age groups: &quot;0 - 4&quot;, ..., &quot;80 - 84&quot;, 
       </button>
       <span class="navbar-brand">
         <a class="navbar-link" href="../index.html">fcds</a>
-        <span class="version label label-default" data-toggle="tooltip" data-placement="bottom" title="Released version">0.0.6.9003</span>
+        <span class="version label label-default" data-toggle="tooltip" data-placement="bottom" title="Released version">0.0.6.9004</span>
       </span>
     </div>
 

diff --git a/reference/filter_age_groups.html b/reference/filter_age_groups.html
@@ -68,7 +68,7 @@ boundary age lies within a group, that group is not included in the output." />
       </button>
       <span class="navbar-brand">
         <a class="navbar-link" href="../index.html">fcds</a>
-        <span class="version label label-default" data-toggle="tooltip" data-placement="bottom" title="Released version">0.0.6.9003</span>
+        <span class="version label label-default" data-toggle="tooltip" data-placement="bottom" title="Released version">0.0.6.9004</span>
       </span>
     </div>
 

diff --git a/reference/add_mid_year_groups.html b/reference/add_mid_year_groups.html
@@ -69,7 +69,7 @@ as floor((year_max - year_min) / 2) unless offset is explicitly provided." />
       </button>
       <span class="navbar-brand">
         <a class="navbar-link" href="../index.html">fcds</a>
-        <span class="version label label-default" data-toggle="tooltip" data-placement="bottom" title="Released version">0.0.6.9003</span>
+        <span class="version label label-default" data-toggle="tooltip" data-placement="bottom" title="Released version">0.0.6.9004</span>
       </span>
     </div>
 

diff --git a/reference/fcds_import.html b/reference/fcds_import.html
@@ -71,7 +71,7 @@ raw data. The data caching can be disabled by setting output_file = NULL." />
       </button>
       <span class="navbar-brand">
         <a class="navbar-link" href="../index.html">fcds</a>
-        <span class="version label label-default" data-toggle="tooltip" data-placement="bottom" title="Released version">0.0.6.9003</span>
+        <span class="version label label-default" data-toggle="tooltip" data-placement="bottom" title="Released version">0.0.6.9004</span>
       </span>
     </div>
 

diff --git a/reference/seer_pop_fl.html b/reference/seer_pop_fl.html
@@ -72,7 +72,7 @@ the FCDS data. Only years matching the FCDS 5-year mid year are included." />
       </button>
       <span class="navbar-brand">
         <a class="navbar-link" href="../index.html">fcds</a>
-        <span class="version label label-default" data-toggle="tooltip" data-placement="bottom" title="Released version">0.0.6.9003</span>
+        <span class="version label label-default" data-toggle="tooltip" data-placement="bottom" title="Released version">0.0.6.9004</span>
       </span>
     </div>
 

diff --git a/reference/fcds_const.html b/reference/fcds_const.html
@@ -67,7 +67,7 @@ about the cleaned column and value labels and the original data values." />
       </button>
       <span class="navbar-brand">
         <a class="navbar-link" href="../index.html">fcds</a>
-        <span class="version label label-default" data-toggle="tooltip" data-placement="bottom" title="Released version">0.0.6.9003</span>
+        <span class="version label label-default" data-toggle="tooltip" data-placement="bottom" title="Released version">0.0.6.9004</span>
       </span>
     </div>
 

diff --git a/reference/with_retain_groups.html b/reference/with_retain_groups.html
@@ -69,7 +69,7 @@ grouped data frame and restores the original group as much as possible." />
       </button>
       <span class="navbar-brand">
         <a class="navbar-link" href="../index.html">fcds</a>
-        <span class="version label label-default" data-toggle="tooltip" data-placement="bottom" title="Released version">0.0.6.9003</span>
+        <span class="version label label-default" data-toggle="tooltip" data-placement="bottom" title="Released version">0.0.6.9004</span>
       </span>
     </div>
 
